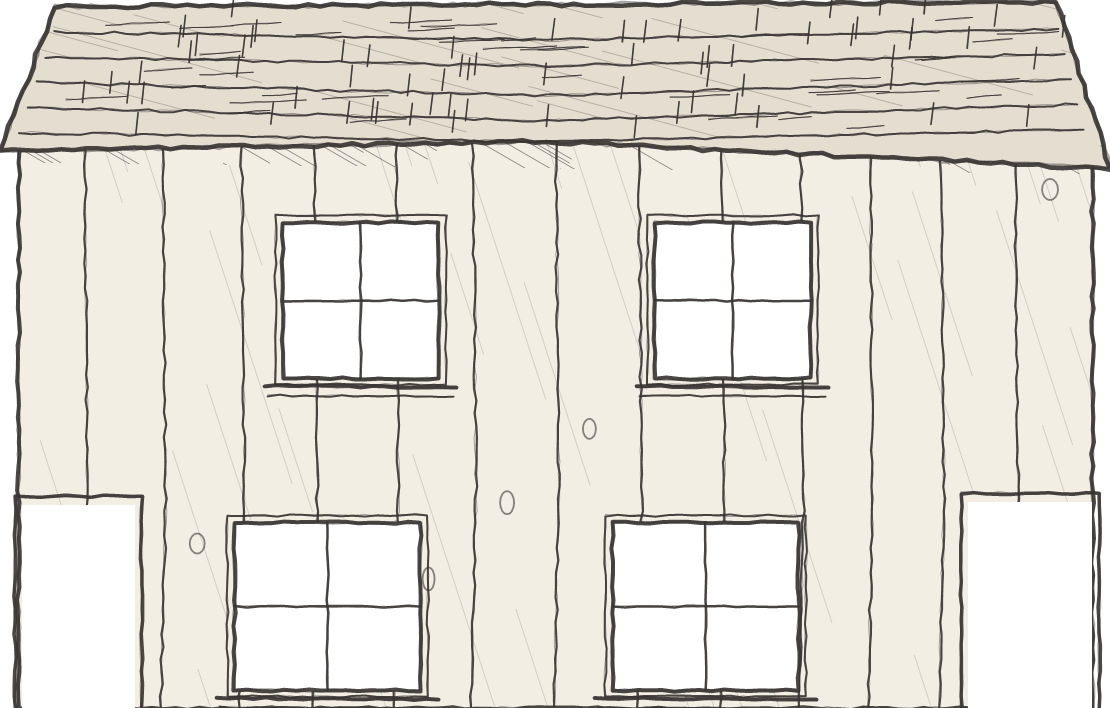
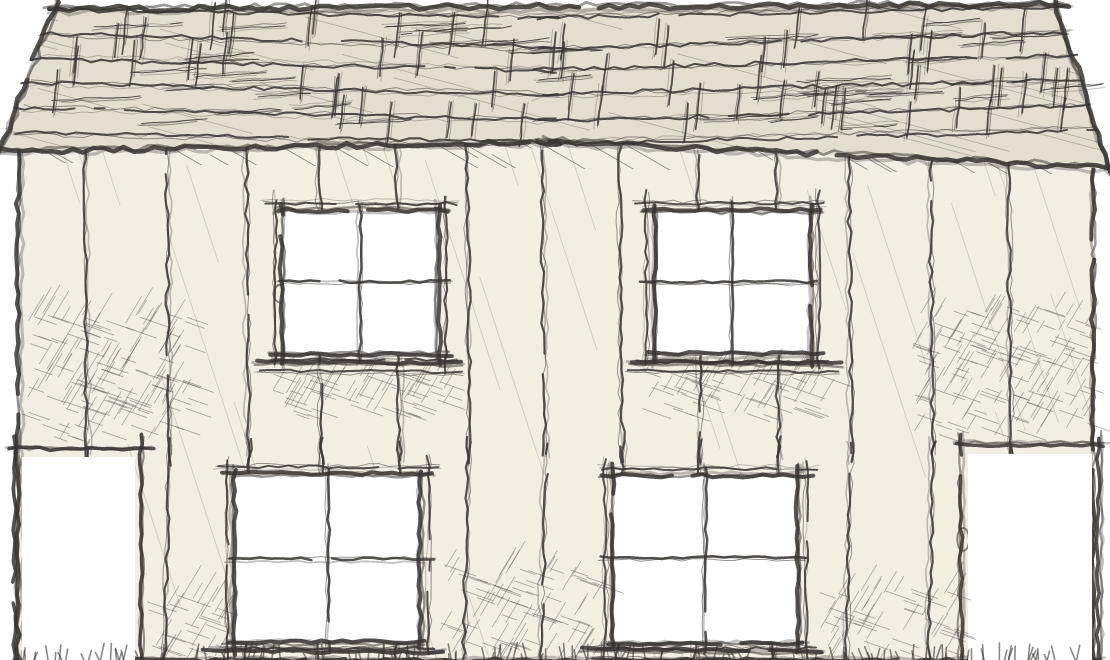
domeček

Changed region(s): [[0.0, 0.0, 1.0, 1.0], [0.0613, 0.3636, 0.0919, 0.4242]]

diff --git a/Tools/ArtGenerator/Denik.cs b/Tools/ArtGenerator/Denik.cs
@@ -1,0 +1,142 @@
+using System;
+using System.Collections.Generic;
+using System.IO;
+using System.IO.Compression;
+using System.Security;
+using System.Text;
+
+// Denik prace (Word .docx) - postaveny rucne z XML, bez knihoven
+static class Denik
+{
+    // (datum, odstavce)
+    static readonly List<(string, string[])> zapisy = new()
+    {
+        ("21.–22. 10. 2026", new[] {
+            "Začátek projektu. Navrhla jsem, jaké skripty bude hra potřebovat: pohyb postavičky (chůze, skok), kamera, která ji sleduje, plošiny, jídlo a přechod do dalšího levelu.",
+            "Kód jsem zjednodušila tak, aby byl přehledný – jednoduché skripty, komentáře a výpisy v češtině." }),
+        ("22. 10. 2026", new[] {
+            "První verze mého levelu podle náčrtu. Ruka v levelu sama nakreslí hvězdu – to byl první pokus o „živý“ sešit." }),
+        ("26. 10. 2026", new[] {
+            "Druhá verze levelu: velký graf paraboly, po kterém postavička sjíždí, kamera s velikostí 7,5, plošiny, které se dají proskočit zespodu, a přechod do dalšího levelu.",
+            "První animace postavičky podle videa a pak podle konceptu (kulatá hlava, černý plášť, tenké nožičky)." }),
+        ("27. 10. 2026", new[] {
+            "Animace: plášť z boku, při pádu se plášť roztáhne jako padák, jedení – vystřelí jazyk a jídlo přiletí do pusy." }),
+        ("2. 11. 2026", new[] {
+            "Pozadí z fotky papíru – level vypadá jako školní sešit z matematiky. Zeslabila jsem třes kamery při dopadu." }),
+        ("4.–5. 11. 2026", new[] {
+            "Level jsem přestavěla podle svého nákresu: velikost 2 × 2 obrazovky, řádky textu jako plošiny, tmavé obrázky, graf nahoře. Přidala jsem okraje sešitu (listy pod hlavním listem a stín).",
+            "Postavičku jsem rozpohybovala svými kresbami: stání s mrkáním, chůze ze 2 kreseb, skok, pád a jedení z 9 kreseb (jazyk vystřelí, zatočí se a vrátí se).",
+            "Klíč a dveře: klíč se bere klávesou F, zelené dveře se klávesou F otevřou, když má postavička klíč. U klíče a dveří je kreslená nápověda.",
+            "Ruka s gumou smaže červenou plošinu, až na ní postavička stojí a sní modrý čtvereček; potom ruka s tužkou nakreslí malou plošinu. V místnosti ruka nakreslí klíč a smaže fialové dveře.",
+            "Když postavička vyjde ze sešitu, level začne znovu.",
+            "Po cizím commitu se scéna nedala otevřít (v souboru zůstaly konflikty) – obnovila jsem ji ze starší verze v gitu." }),
+        ("6. 11. 2026", new[] {
+            "Poslední level VarvaraKonec „Prázdné stránky“: obrovská guma honí postavičku zleva doprava a maže plošiny za ní, některé plošiny se rozpadají. Když guma postavičku dožene, smaže ji a ruka napíše na prázdný sešit závěrečnou větu.",
+            "Nový klidný level Varvara2 mezi nimi: prázdný list, stopy po gumě, ruka postavičce smaže chocholku, ona se lekne a uteče do dalšího levelu.",
+            "Druhý (dobrý) konec: kdo najde tajný čtvereček v jámě, dostane na konci tužku. Tužka postavičce dokreslí chocholku a nakreslí zeď, o kterou se guma rozbije.",
+            "Opravila jsem animaci chůze – z kreseb zmizely slabé čárky pohybu, které vypadaly jako třetí noha." }),
+        ("12. 11. 2026", new[] {
+            "Hra nešla spustit v žádné scéně – ze společného skriptu jídla zmizela proměnná, kterou používají dveře v levelu Ines. Vrátila jsem ji tak, aby fungoval kód Filipa i Ines.",
+            "Animace postavičky jsem dala i do levelů Filipa a Ines. Nápisy v mých levelech jsem přeložila do angličtiny.",
+            "Menu konce hry („You finished the game!“, Play again, Controls, Settings, Credits) a startovní menu: dole je hřiště, kde se dá postavičkou chodit a chytat ručně nakreslená čísla. Pauza na klávesu Esc.",
+            "Animace rozpadu postavičky, když vypadne ze sešitu (6 mých kreseb). Kamera v levelu Ines je teď stejná jako v mých levelech." }),
+        ("16. 11. 2026", new[] {
+            "Na řádky v levelu Varvara jsem napsala modrou fixou úlohu o míčku, který letí po parabole: „QUADRATIC FUNCTIONS“, vzorec f(x) = −0,5x² + 18, vrchol, osu souměrnosti, maximální výšku a tabulku hodnot x a f(x). Texty jsem fotila a vložila do hry jako obrázky.",
+            "Modrý čtvereček jídla jsem nahradila napsaným číslem 18, takže vzorec pokračuje.",
+            "Kreslené ruce jsem vyměnila za fotky své ruky – jednou s gumou, jednou s tužkou.",
+            "Na řádcích s textem se dá chodit jen tam, kde je text napsaný." }),
+        ("18. 11. 2026", new[] {
+            "Ruce jsem zvětšila, aby byly lépe vidět." }),
+        ("19. 11. 2026", new[] {
+            "Oprava: v levelu Ines a Filipa hra přecházela dál, i když nebylo všechno snědené – počítadlo jídla se po změně kódu nenulovalo. Pořadí levelů je teď Ines → Filip → Varvara.",
+            "Další texty: na červené plošině „The ball lands after 6 metres“ s červeně přeškrtnutou šestkou – nápis se smaže spolu s plošinou. Čtverečky jídla jsou teď napsaná čísla 9 a 4. Dole výpočet −0,5x² + 18 = 0 ⇒ x² = 36 ⇒ x = ±6 a vpravo další řádky (f(0), f(1), f(4), vrchol, a = −0,5).",
+            "Texty jsem srovnala, aby byla písmena všude stejně velká a nebyla nakřivo.",
+            "Mezi dvěma dveřmi stojí domeček z prken nakreslený jako skica. Postavička je uvnitř vidět jen v oknech." }),
+    };
+
+    public static void Uloz(string soubor)
+    {
+        var d = new StringBuilder();
+        d.Append("<?xml version=\"1.0\" encoding=\"UTF-8\" standalone=\"yes\"?>");
+        d.Append("<w:document xmlns:w=\"http://schemas.openxmlformats.org/wordprocessingml/2006/main\"><w:body>");
+        Odst(d, "Title", "Deník práce – Klauzura 2D: Paper Guy");
+        Odst(d, "Subtitle", "Varvara · levely Varvara, Varvara2 a VarvaraKonec, menu");
+        Odst(d, null, "Hra je 2D plošinovka v Unity 6. Odehrává se ve školním sešitě z matematiky – postavička z papíru chodí po řádcích textu, jí nakreslená čísla a utíká před gumou. Grafiku kreslila Ines, programovali jsme s Filipem. V tomhle deníku píšu, co jsem kdy na hře dělala.");
+
+        // koncept a zmeny konceptu (text tymu)
+        Odst(d, "Heading1", "1. Původní koncept a vize projektu");
+        Odst(d, null, "Na úplném začátku vývoje stála myšlenka vytvořit atmosférickou 2D plošinovku o oživené skice (nakreslené postavičce), která prochází jednotlivými stranami školního sešitu. Hlavní narativní linií a cílem postavy byla snaha dosáhnout úplně poslední stránky sešitu, kde ji podle původního záměru čekal tragický osud – neúprosné vymazání gumou ze strany autora.");
+        Odst(d, "Heading1", "2. Vývojové změny a iterace konceptu");
+        Odst(d, null, "Během produkční fáze a testování herních mechanik prošel koncept několika zásadními změnami, které výrazně posunuly hratelnost i technickou stabilitu hry:");
+        Odst(d, "Heading3", "A. Hratelnost a gradace finále (Game Design)");
+        Bod(d, "Původní stav:", "Pasivní zakončení hry, kde je postava na poslední stránce pouze sledovatelem svého vymazání.");
+        Bod(d, "Iterace:", "Po společné diskusi jsme se rozhodli finální pasáž dramatizovat a přidat prvek překvapení. Místo obyčejné animace mazání jsme navrhli a implementovali interaktivní mini-bossfight s Rukou autora.");
+        Bod(d, "Přínos:", "Závěr hry díky tomu získal potřebnou gradaci, dynamiku a hráči nabízí vyvrcholení v podobě aktivní výzvy, což výrazně zvyšuje celkový zážitek ze hry.");
+        Odst(d, "Heading3", "B. Vizuální styl a technická optimalizace (Technical Art & Physics)");
+        Bod(d, "Původní stav:", "Záměr zasadit hru do prostředí klasického linkovaného nebo čtverečkovaného sešitu.");
+        Bod(d, "Technické komplikace:", "Během vývoje kódu a nastavování kolizí se ukázalo, že vizuální mřížka (linky/čtverečky) vytváří výrazná omezení při přesném pozicionování objektů, konfiguraci fyzikálního enginu a plynulém pohybu postavy.");
+        Bod(d, "Optimální řešení:", "Rozhodli jsme se upravit vizuální podklad na čisté bílé listy papíru.");
+        Bod(d, "Přínos:", "Tato změna zásadně zjednodušila technickou architekturu vývoje. Uvolnila nám ruce při návrhu level designu, umožnila preciznější nastavení fyzikálních kolizí a dovolila týmu plně se soustředit na plynulost mechaniky pohybu, skoků a detailní 2D animaci.");
+        Odst(d, "Heading3", "C. Hranice sešitu (Level Design)");
+        Bod(d, "Původní stav:", "Postavičku na okrajích levelu zastavovaly neviditelné stěny.");
+        Bod(d, "Iterace:", "Rozhodli jsme se, že když postavička vyjde mimo list sešitu, vypaří se – rozpadne se na kousky (animace ze šesti kreseb) a level začne znovu od začátku.");
+        Bod(d, "Přínos:", "Okraj sešitu se stal součástí hry místo neviditelné zdi. Hráč hned vidí, kde svět končí, a pád ze stránky má jasný a srozumitelný následek.");
+        Odst(d, "Heading1", "3. Zhodnocení vývojového procesu");
+        Odst(d, null, "Změny provedené během vývoje ukazují naši schopnost reagovat na technické výzvy a kriticky hodnotit game design. Výsledkem těchto iterací je stabilnější, hratelnější a dynamičtější projekt, který si zachovává svou původní osobitou myšlenku, ale nabízí výrazně kvalitnější herní zážitek.");
+        Odst(d, null, "Přílohy (videa): sin.mp4, han.mp4");
+
+        Odst(d, "Heading1", "4. Deník práce po dnech");
+        foreach (var (datum, odstavce) in zapisy)
+        {
+            Odst(d, "Heading2", datum);
+            foreach (string o in odstavce) Odst(d, null, o);
+        }
+        Odst(d, "Heading2", "Co zbývá");
+        Odst(d, null, "Projít celou hru od startovního menu až po konec a vyzkoušet oba konce. Hra zatím nemá zvuky ani hudbu.");
+        d.Append("<w:sectPr><w:pgSz w:w=\"11906\" w:h=\"16838\"/><w:pgMar w:top=\"1418\" w:right=\"1418\" w:bottom=\"1418\" w:left=\"1418\" w:header=\"709\" w:footer=\"709\" w:gutter=\"0\"/></w:sectPr>");
+        d.Append("</w:body></w:document>");
+
+        string styly = "<?xml version=\"1.0\" encoding=\"UTF-8\" standalone=\"yes\"?>" +
+            "<w:styles xmlns:w=\"http://schemas.openxmlformats.org/wordprocessingml/2006/main\">" +
+            "<w:docDefaults><w:rPrDefault><w:rPr><w:rFonts w:ascii=\"Calibri\" w:hAnsi=\"Calibri\" w:cs=\"Calibri\"/><w:sz w:val=\"23\"/><w:lang w:val=\"cs-CZ\"/></w:rPr></w:rPrDefault>" +
+            "<w:pPrDefault><w:pPr><w:spacing w:after=\"120\" w:line=\"276\" w:lineRule=\"auto\"/></w:pPr></w:pPrDefault></w:docDefaults>" +
+            "<w:style w:type=\"paragraph\" w:default=\"1\" w:styleId=\"Normal\"><w:name w:val=\"Normal\"/><w:pPr><w:jc w:val=\"both\"/></w:pPr></w:style>" +
+            "<w:style w:type=\"paragraph\" w:styleId=\"Title\"><w:name w:val=\"Title\"/><w:basedOn w:val=\"Normal\"/><w:pPr><w:spacing w:before=\"0\" w:after=\"60\"/><w:jc w:val=\"left\"/></w:pPr><w:rPr><w:rFonts w:ascii=\"Calibri\" w:hAnsi=\"Calibri\"/><w:b/><w:color w:val=\"1F3864\"/><w:sz w:val=\"44\"/></w:rPr></w:style>" +
+            "<w:style w:type=\"paragraph\" w:styleId=\"Subtitle\"><w:name w:val=\"Subtitle\"/><w:basedOn w:val=\"Normal\"/><w:pPr><w:spacing w:before=\"0\" w:after=\"240\"/><w:pBdr><w:bottom w:val=\"single\" w:sz=\"6\" w:space=\"6\" w:color=\"8EAADB\"/></w:pBdr><w:jc w:val=\"left\"/></w:pPr><w:rPr><w:color w:val=\"595959\"/><w:sz w:val=\"26\"/></w:rPr></w:style>" +
+            "<w:style w:type=\"paragraph\" w:styleId=\"Heading1\"><w:name w:val=\"heading 1\"/><w:basedOn w:val=\"Normal\"/><w:next w:val=\"Normal\"/><w:pPr><w:keepNext/><w:spacing w:before=\"360\" w:after=\"120\"/><w:jc w:val=\"left\"/><w:outlineLvl w:val=\"0\"/></w:pPr><w:rPr><w:rFonts w:ascii=\"Calibri\" w:hAnsi=\"Calibri\"/><w:b/><w:color w:val=\"1F3864\"/><w:sz w:val=\"32\"/></w:rPr></w:style>" +
+            "<w:style w:type=\"paragraph\" w:styleId=\"Heading3\"><w:name w:val=\"heading 3\"/><w:basedOn w:val=\"Normal\"/><w:next w:val=\"Normal\"/><w:pPr><w:keepNext/><w:spacing w:before=\"200\" w:after=\"80\"/><w:jc w:val=\"left\"/><w:outlineLvl w:val=\"2\"/></w:pPr><w:rPr><w:rFonts w:ascii=\"Calibri\" w:hAnsi=\"Calibri\"/><w:b/><w:color w:val=\"2F5496\"/><w:sz w:val=\"24\"/></w:rPr></w:style>" +
+            "<w:style w:type=\"paragraph\" w:styleId=\"Heading2\"><w:name w:val=\"heading 2\"/><w:basedOn w:val=\"Normal\"/><w:next w:val=\"Normal\"/><w:pPr><w:keepNext/><w:spacing w:before=\"280\" w:after=\"80\"/><w:jc w:val=\"left\"/><w:outlineLvl w:val=\"1\"/></w:pPr><w:rPr><w:rFonts w:ascii=\"Calibri\" w:hAnsi=\"Calibri\"/><w:b/><w:color w:val=\"2F5496\"/><w:sz w:val=\"28\"/></w:rPr></w:style>" +
+            "</w:styles>";
+
+        if (File.Exists(soubor)) File.Delete(soubor);
+        using var zip = ZipFile.Open(soubor, ZipArchiveMode.Create);
+        Pis(zip, "[Content_Types].xml", "<?xml version=\"1.0\" encoding=\"UTF-8\" standalone=\"yes\"?><Types xmlns=\"http://schemas.openxmlformats.org/package/2006/content-types\"><Default Extension=\"rels\" ContentType=\"application/vnd.openxmlformats-package.relationships+xml\"/><Default Extension=\"xml\" ContentType=\"application/xml\"/><Override PartName=\"/word/document.xml\" ContentType=\"application/vnd.openxmlformats-officedocument.wordprocessingml.document.main+xml\"/><Override PartName=\"/word/styles.xml\" ContentType=\"application/vnd.openxmlformats-officedocument.wordprocessingml.styles+xml\"/></Types>");
+        Pis(zip, "_rels/.rels", "<?xml version=\"1.0\" encoding=\"UTF-8\" standalone=\"yes\"?><Relationships xmlns=\"http://schemas.openxmlformats.org/package/2006/relationships\"><Relationship Id=\"rId1\" Type=\"http://schemas.openxmlformats.org/officeDocument/2006/relationships/officeDocument\" Target=\"word/document.xml\"/></Relationships>");
+        Pis(zip, "word/_rels/document.xml.rels", "<?xml version=\"1.0\" encoding=\"UTF-8\" standalone=\"yes\"?><Relationships xmlns=\"http://schemas.openxmlformats.org/package/2006/relationships\"><Relationship Id=\"rId1\" Type=\"http://schemas.openxmlformats.org/officeDocument/2006/relationships/styles\" Target=\"styles.xml\"/></Relationships>");
+        Pis(zip, "word/document.xml", d.ToString());
+        Pis(zip, "word/styles.xml", styly);
+        Console.WriteLine(soubor + ": " + zapisy.Count + " zapisu");
+    }
+
+    static void Odst(StringBuilder d, string styl, string text)
+    {
+        d.Append("<w:p>");
+        if (styl != null) d.Append("<w:pPr><w:pStyle w:val=\"" + styl + "\"/></w:pPr>");
+        d.Append("<w:r><w:t xml:space=\"preserve\">" + SecurityElement.Escape(text) + "</w:t></w:r></w:p>");
+    }
+
+    // odrazka: tucny nazev + text, odsazena (bez znaku odrazky)
+    static void Bod(StringBuilder d, string nazev, string text)
+    {
+        d.Append("<w:p><w:pPr><w:ind w:left=\"567\"/><w:spacing w:after=\"80\"/></w:pPr>");
+        d.Append("<w:r><w:rPr><w:b/></w:rPr><w:t xml:space=\"preserve\">" + SecurityElement.Escape(nazev) + " </w:t></w:r>");
+        d.Append("<w:r><w:t xml:space=\"preserve\">" + SecurityElement.Escape(text) + "</w:t></w:r></w:p>");
+    }
+
+    static void Pis(ZipArchive zip, string cesta, string obsah)
+    {
+        var e = zip.CreateEntry(cesta);
+        using var w = new StreamWriter(e.Open(), new UTF8Encoding(false));
+        w.Write(obsah);
+    }
+}

diff --git a/Tools/ArtGenerator/Dum.cs b/Tools/ArtGenerator/Dum.cs
@@ -10,8 +10,8 @@ using System.IO;
 static class Dum
 {
     const float PPU = 60f;
-    const float X0 = 22.4f, Y1 = 6.8f;          // levy horni roh obrazku ve svete
-    const float W = 18.5f, H = 11.8f;            // x 22.4..40.9, y -5..6.8
+    const float X0 = 22.4f, Y1 = 6.0f;          // levy horni roh obrazku ve svete (pod textem cervene plosiny)
+    const float W = 18.5f, H = 11.0f;            // x 22.4..40.9, y -5..6.0
     static readonly Color Tuzka = Color.FromArgb(55, 52, 50);
     static readonly Color Papir = Color.FromArgb(242, 238, 228);
     static readonly Color PapirTmavsi = Color.FromArgb(228, 222, 208);
@@ -29,36 +29,36 @@ static class Dum
             var rnd = new Random(11);
 
             // --- stena z prken ---
-            PointF[] stena = { P(22.7f, 4.7f), P(40.6f, 4.5f), P(40.6f, -5f), P(22.7f, -5f) };
+            PointF[] stena = { P(22.7f, 3.9f), P(40.6f, 3.7f), P(40.6f, -5f), P(22.7f, -5f) };
             using (var b = new SolidBrush(Papir)) g.FillPolygon(b, stena);
             using (var cesta = new GraphicsPath()) { cesta.AddPolygon(stena); Srafuj(g, cesta, 0.2f, 45, 72, rnd); }
             for (float x = 23.8f; x < 40.4f; x += 1.15f + (float)rnd.NextDouble() * 0.25f)
             {
-                float top = 4.7f - (x - 22.7f) * 0.011f;
+                float top = 3.9f - (x - 22.7f) * 0.011f;
                 Cara(g, new[] { P(x, top), P(x + 0.05f, -1.5f), P(x - 0.03f, -5f) }, 2.2f, 3f, rnd.Next());
-                if (rnd.NextDouble() < 0.5) Suk(g, x + 0.55f, -4.5f + (float)rnd.NextDouble() * 8.5f, rnd);
+                if (rnd.NextDouble() < 0.5) Suk(g, x + 0.55f, -4.5f + (float)rnd.NextDouble() * 7.8f, rnd);
             }
             Cara(g, stena, 4f, 3f, 5, true);
             // stin pod strechou
-            using (var cesta = new GraphicsPath()) { cesta.AddPolygon(new[] { P(22.7f, 4.7f), P(40.6f, 4.5f), P(40.6f, 3.9f), P(22.7f, 4.1f) }); Srafuj(g, cesta, 0.06f, 140, 30, rnd); }
+            using (var cesta = new GraphicsPath()) { cesta.AddPolygon(new[] { P(22.7f, 3.9f), P(40.6f, 3.7f), P(40.6f, 3.1f), P(22.7f, 3.3f) }); Srafuj(g, cesta, 0.06f, 140, 30, rnd); }
 
             // --- krivá strecha z prken ---
-            PointF[] strecha = { P(22.4f, 4.3f), P(23.3f, 6.7f), P(40.0f, 6.78f), P(40.9f, 4.0f), P(31.5f, 4.45f) };
+            PointF[] strecha = { P(22.4f, 3.5f), P(23.3f, 5.85f), P(40.0f, 5.92f), P(40.9f, 3.2f), P(31.5f, 3.65f) };
             using (var b = new SolidBrush(PapirTmavsi)) g.FillPolygon(b, strecha);
-            for (float y = 4.6f; y < 6.7f; y += 0.42f)
+            for (float y = 3.8f; y < 5.85f; y += 0.41f)
             {
                 float sag = (float)rnd.NextDouble() * 0.12f;
-                Cara(g, new[] { P(22.6f + (y - 4.3f) * 0.35f, y), P(31.5f, y - 0.12f - sag), P(40.6f - (y - 4.0f) * 0.25f, y + 0.05f) }, 2f, 3f, rnd.Next());
+                Cara(g, new[] { P(22.6f + (y - 3.5f) * 0.35f, y), P(31.5f, y - 0.12f - sag), P(40.6f - (y - 3.2f) * 0.25f, y + 0.05f) }, 2f, 3f, rnd.Next());
             }
             for (int i = 0; i < 40; i++)
             {
-                float x = 23f + (float)rnd.NextDouble() * 17f, y = 4.6f + (float)rnd.NextDouble() * 1.9f;
+                float x = 23f + (float)rnd.NextDouble() * 17f, y = 3.8f + (float)rnd.NextDouble() * 1.85f;
                 Cara(g, new[] { P(x, y), P(x + 0.5f + (float)rnd.NextDouble() * 0.8f, y + 0.05f) }, 1.3f, 1.5f, rnd.Next());
             }
             // svisle spary mezi sindeli
             for (int i = 0; i < 70; i++)
             {
-                float x = 23.2f + (float)rnd.NextDouble() * 17f, y = 4.5f + (float)rnd.NextDouble() * 2.1f;
+                float x = 23.2f + (float)rnd.NextDouble() * 17f, y = 3.7f + (float)rnd.NextDouble() * 1.9f;
                 Cara(g, new[] { P(x, y), P(x + 0.04f, y + 0.36f) }, 1.6f, 1f, rnd.Next());
             }
             using (var cesta = new GraphicsPath()) { cesta.AddPolygon(strecha); Srafuj(g, cesta, 0.12f, 70, 15, rnd); }
@@ -67,7 +67,7 @@ static class Dum
             // --- okna (diry) a dvere (diry) ---
             RectangleF[] okna = {
                 R(26.3f, -4.7f, 29.4f, -1.9f), R(32.6f, -4.7f, 35.7f, -1.9f),   // dole - hrdina chodi po zemi
-                R(27.1f, 0.5f, 29.7f, 3.1f), R(33.3f, 0.5f, 35.9f, 3.1f) };     // nahore - kdyz pada shora
+                R(27.1f, 0.1f, 29.7f, 2.5f), R(33.3f, 0.1f, 35.9f, 2.5f) };     // nahore - kdyz pada shora
             RectangleF[] dvere = { R(22.76f, -5f, 24.63f, -1.61f), R(38.53f, -5f, 40.59f, -1.56f) };
 
             g.CompositingMode = CompositingMode.SourceCopy;
@@ -84,6 +84,24 @@ static class Dum
                 // zarubne
                 Cara(g, new[] { P(d.Left - 0.12f, d.Top), P(d.Left - 0.12f, d.Bottom + 0.15f), P(d.Right + 0.12f, d.Bottom + 0.15f), P(d.Right + 0.12f, d.Top) }, 3.5f, 2.5f, rnd.Next());
             }
+
+            // skica: krizove srafovani do koutu a pod okna (mimo diry)
+            Kriz(g, 22.75f, -1.3f, 25.6f, 0.8f, 160, rnd);
+            Kriz(g, 37.6f, -1.25f, 40.55f, 0.9f, 160, rnd);
+            Kriz(g, 26.9f, -0.9f, 29.9f, -0.15f, 70, rnd);
+            Kriz(g, 33.1f, -0.9f, 36.1f, -0.15f, 70, rnd);
+            Kriz(g, 29.7f, -5f, 32.3f, -3.4f, 90, rnd);
+            Kriz(g, 36.0f, -5f, 38.3f, -3.8f, 60, rnd);
+            Kriz(g, 24.8f, -5f, 26.1f, -3.9f, 40, rnd);
+            // trava a kaminky u zeme
+            using (var pen = new Pen(Color.FromArgb(150, Tuzka), 1.6f) { StartCap = LineCap.Round, EndCap = LineCap.Round })
+                for (int i = 0; i < 140; i++)
+                {
+                    float x = 22.5f + (float)rnd.NextDouble() * 18.2f;
+                    PointF z = P(x, -5f);
+                    float v = 6f + (float)rnd.NextDouble() * 12f, nakl = ((float)rnd.NextDouble() - 0.5f) * 10f;
+                    g.DrawLine(pen, z.X, z.Y - 1, z.X + nakl, z.Y - v);
+                }
         }
         string cesta2 = Path.Combine(slozka, "Dum.png");
         bmp.Save(cesta2, ImageFormat.Png);
@@ -161,30 +179,58 @@ static class Dum
     static void Cara(Graphics g, PointF[] body, float sirka, float amp, int seed, bool zavrena = false) => CaraPx(g, body, sirka, amp, seed, zavrena);
 
     // carka tuzkou: dvakrat pres sebe, trochu roztresena
+    // skica: kazdy usek je samostatny tah, 3x pres sebe, konce prelezaji pres rohy, obcas mezera
     static void CaraPx(Graphics g, PointF[] body, float sirka, float amp, int seed, bool zavrena = false)
     {
-        for (int pruchod = 0; pruchod < 2; pruchod++)
+        int n = zavrena ? body.Length : body.Length - 1;
+        for (int pruchod = 0; pruchod < 3; pruchod++)
         {
             var rnd = new Random(seed + pruchod * 31);
-            var vys = new List<PointF>();
-            int n = zavrena ? body.Length : body.Length - 1;
+            int alfa = pruchod == 0 ? 215 : pruchod == 1 ? 130 : 75;
+            float tl = pruchod == 0 ? sirka : sirka * (0.45f + 0.15f * pruchod);
+            using var pen = new Pen(Color.FromArgb(alfa, Tuzka), tl) { LineJoin = LineJoin.Round, StartCap = LineCap.Round, EndCap = LineCap.Round };
             for (int i = 0; i < n; i++)
             {
                 PointF a = body[i], b = body[(i + 1) % body.Length];
                 float dx = b.X - a.X, dy = b.Y - a.Y, len = MathF.Sqrt(dx * dx + dy * dy);
                 if (len < 0.01f) continue;
-                int kroku = Math.Max(1, (int)(len / 12));
-                float nx = -dy / len, ny = dx / len;
-                for (int j = 0; j < kroku; j++)
+                float ux = dx / len, uy = dy / len, nx = -uy, ny = ux;
+                // prelez pres konce a posun celeho tahu
+                float pred = 3f + (float)rnd.NextDouble() * 12f, za = 3f + (float)rnd.NextDouble() * 12f;
+                float posun = ((float)rnd.NextDouble() - 0.5f) * 2.5f * (pruchod + 1);
+                PointF z = new PointF(a.X - ux * pred + nx * posun, a.Y - uy * pred + ny * posun);
+                PointF k = new PointF(b.X + ux * za + nx * posun, b.Y + uy * za + ny * posun);
+                float L = len + pred + za;
+                int kroku = Math.Max(2, (int)(L / 10));
+                var tah = new List<PointF>();
+                for (int j = 0; j <= kroku; j++)
                 {
-                    float t = j / (float)kroku, off = ((float)rnd.NextDouble() - 0.5f) * amp;
-                    vys.Add(new PointF(a.X + dx * t + nx * off, a.Y + dy * t + ny * off));
+                    float t = j / (float)kroku, off = ((float)rnd.NextDouble() - 0.5f) * amp * 1.4f;
+                    // obcas tuzka odskoci - kratka mezera
+                    if (pruchod == 0 && j > 1 && j < kroku - 1 && rnd.NextDouble() < 0.025)
+                    {
+                        if (tah.Count > 1) g.DrawLines(pen, tah.ToArray());
+                        tah.Clear();
+                        continue;
+                    }
+                    tah.Add(new PointF(z.X + (k.X - z.X) * t + nx * off, z.Y + (k.Y - z.Y) * t + ny * off));
                 }
+                if (tah.Count > 1) g.DrawLines(pen, tah.ToArray());
             }
-            vys.Add(zavrena ? vys[0] : body[body.Length - 1]);
-            using var pen = new Pen(Color.FromArgb(pruchod == 0 ? 230 : 110, Tuzka), pruchod == 0 ? sirka : sirka * 0.6f)
-            { LineJoin = LineJoin.Round, StartCap = LineCap.Round, EndCap = LineCap.Round };
-            if (vys.Count > 1) g.DrawLines(pen, vys.ToArray());
+        }
+    }
+
+    // krizove srafovani do kouta (svetove souradnice obdelniku), hustota = pocet tahu
+    static void Kriz(Graphics g, float x0, float y0, float x1, float y1, int hustota, Random rnd)
+    {
+        using var pen = new Pen(Color.FromArgb(95, Tuzka), 1.5f) { StartCap = LineCap.Round, EndCap = LineCap.Round };
+        PointF a = P(x0, y1), b = P(x1, y0);
+        for (int i = 0; i < hustota; i++)
+        {
+            float x = a.X + (float)rnd.NextDouble() * (b.X - a.X), y = a.Y + (float)rnd.NextDouble() * (b.Y - a.Y);
+            float d = 10f + (float)rnd.NextDouble() * 22f;
+            if (i % 2 == 0) g.DrawLine(pen, x, y, x + d * 0.6f, y - d);
+            else g.DrawLine(pen, x, y, x + d, y + d * 0.35f);
         }
     }
 

diff --git a/Tools/ArtGenerator/Program.cs b/Tools/ArtGenerator/Program.cs
@@ -6,6 +6,12 @@ string outDir = args.Length > 0 ? args[0] : ".";
 string what = args.Length > 1 ? args[1] : "all";
 Directory.CreateDirectory(outDir);
 
+if (what == "denik")
+{
+    Denik.Uloz(args[2]);
+    return;
+}
+
 if (what == "dum")
 {
     Dum.Kresli(outDir);
